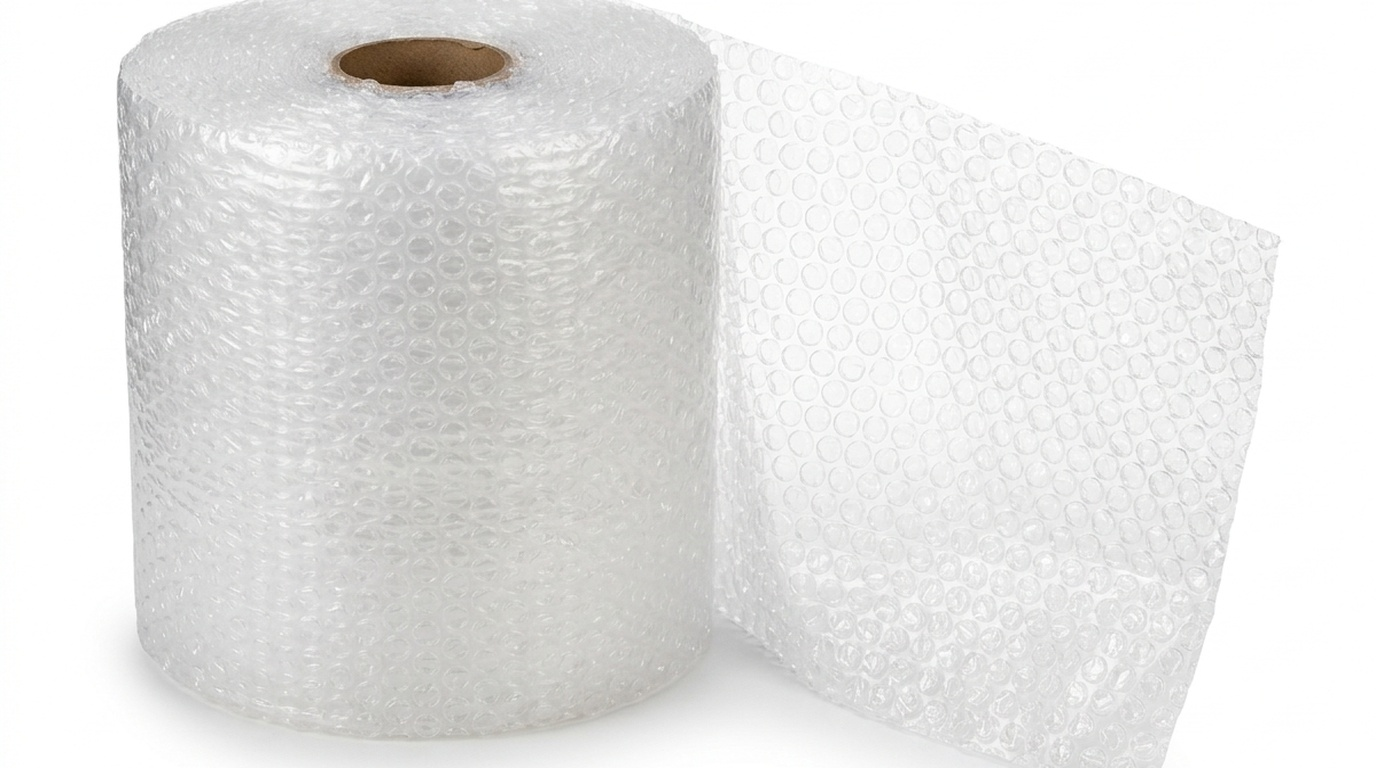
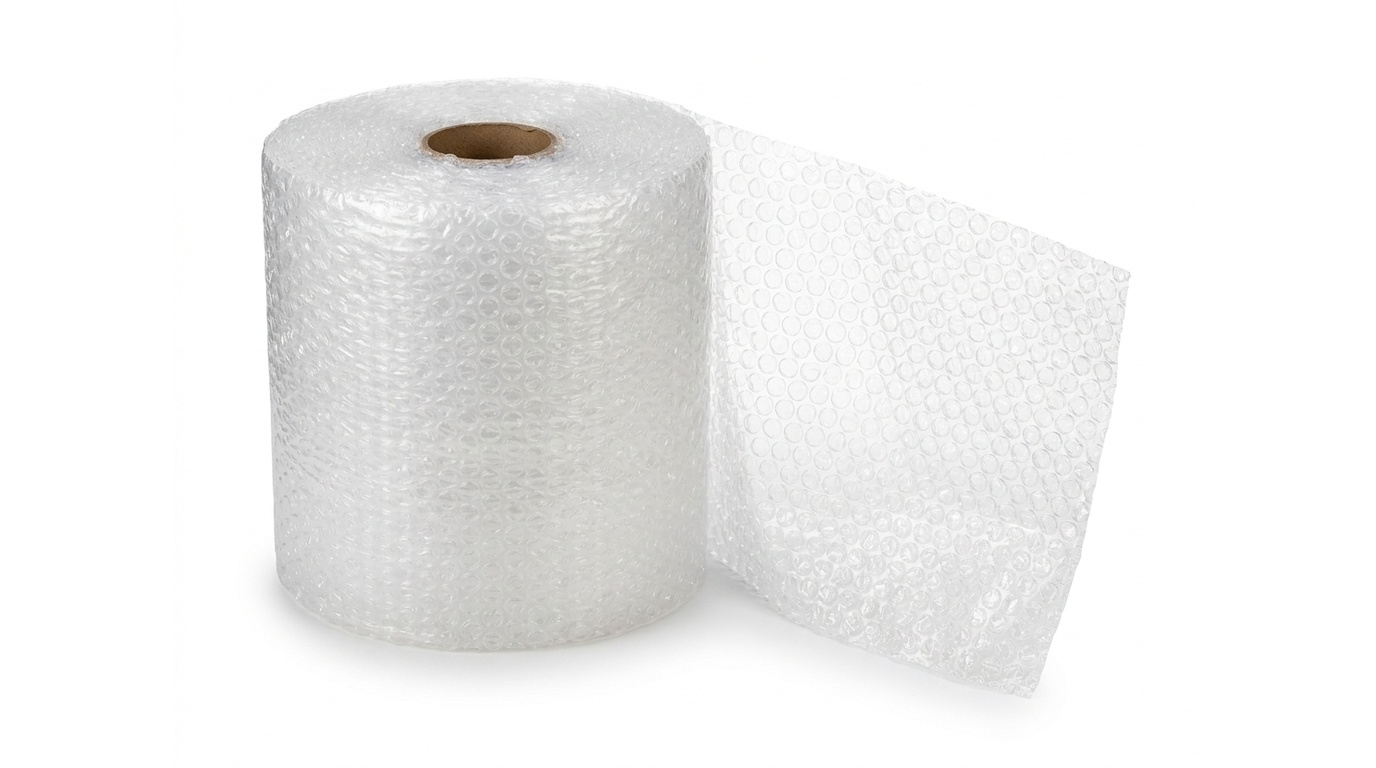
Update all showcase gallery images to 100% full view uncropped display

diff --git a/style.css b/style.css
@@ -2888,7 +2888,7 @@
   left: 0;
   width: 100%;
   height: 100%;
-  object-fit: cover !important;
+  object-fit: contain !important;
   object-position: center;
   display: block;
 }
